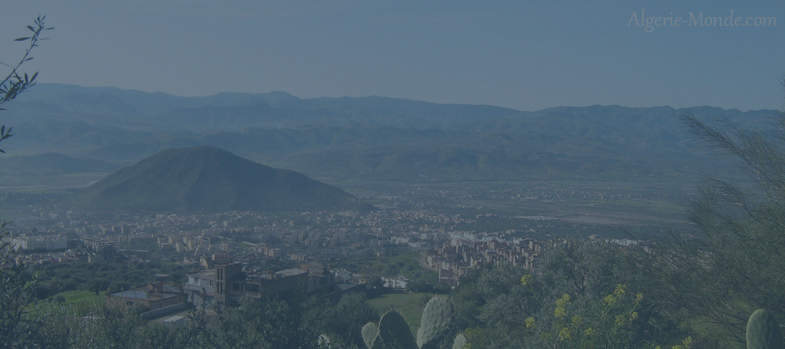
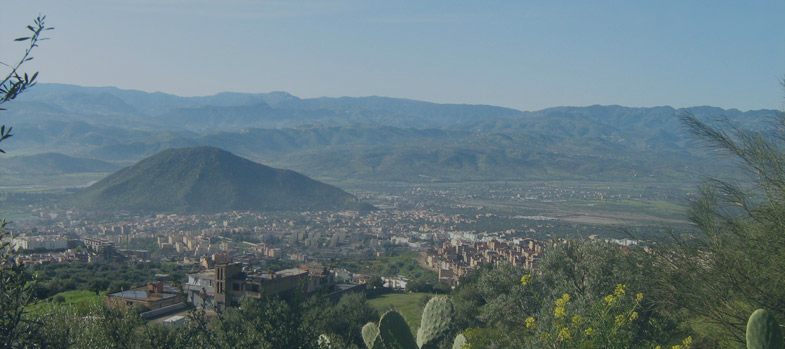
changement de l'image d'akbou

diff --git a/sass/module/_tweets.scss b/sass/module/_tweets.scss
@@ -4,9 +4,13 @@
 		line-height: 110px;
 		width: 100px;
 		height: 100px;
-		border: 4px solid $color;
+		border: 4px solid #fff;
 		border-radius: 100px;
 		margin: 30px auto;
+	}
+	
+	i{
+		color: $color;
 	}
 
 	a{

diff --git a/sass/module/_header.scss b/sass/module/_header.scss
@@ -4,7 +4,7 @@
 	text-align: center;
 	color: #fff;
 
-	background: url(img/akbou.png) center top fixed;
+	background: url(img/akbou-flou.png) center top fixed;
 	@include background-size(cover);
 }
 
